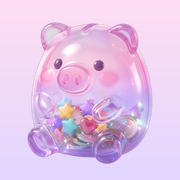
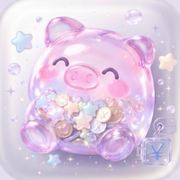
アイコンを新しい貯金箱のデザインに、アプリ名を「貯金箱」に
- いただいた画像からアイコンを切り出し、各サイズ（180/192/512、maskable）を作成
- ホーム画面に追加したときの名前・ページタイトルを「貯金箱」に

Claude-Session: https://claude.ai/code/session_01TingTRwHDzy1PK7LNY3BMc

diff --git a/kakeibo/index.html b/kakeibo/index.html
@@ -6,14 +6,14 @@
 <meta name="description" content="かわいい家計簿・貯金アプリ">
 <meta name="theme-color" content="#f3e6ff">
 <meta name="apple-mobile-web-app-capable" content="yes">
-<meta name="apple-mobile-web-app-title" content="ぶたさん家計簿">
+<meta name="apple-mobile-web-app-title" content="貯金箱">
 <link rel="manifest" href="manifest.webmanifest">
 <link rel="icon" href="icon-192.png" type="image/png">
 <link rel="apple-touch-icon" href="apple-touch-icon.png">
 <link rel="preload" href="pig.webp" as="image">
 <link rel="preload" href="pig-sad.webp" as="image">
 <link rel="preload" href="pig-empty.webp" as="image">
-<title>ぶたさん家計簿</title>
+<title>貯金箱</title>
 <link rel="preconnect" href="https://fonts.googleapis.com">
 <link rel="preconnect" href="https://fonts.gstatic.com" crossorigin>
 <link href="https://fonts.googleapis.com/css2?family=Zen+Maru+Gothic:wght@500;700;900&display=swap" rel="stylesheet">

diff --git a/kakeibo/sw.js b/kakeibo/sw.js
@@ -1,5 +1,5 @@
 // オフラインでも開けるようにするサービスワーカー
-const CACHE = 'kakeibo-v15';
+const CACHE = 'kakeibo-v16';
 const FILES = ['./', './index.html', './manifest.webmanifest', './pig.webp', './pig-sad.webp', './pig-empty.webp', './icon-192.png', './icon-512.png', './icon-maskable.png', './apple-touch-icon.png',
   './fx/coin-gold.webp', './fx/coin-silver.webp', './fx/coin-star.webp', './fx/flame.webp', './fx/heart-blue.webp', './fx/heart-pink.webp', './fx/heart-purple.webp', './fx/sp-pink.webp', './fx/sp-purple.webp', './fx/sp-rainbow.webp', './fx/sp-white.webp', './fx/star-blue.webp', './fx/star-mint.webp', './fx/star-pink.webp', './fx/star-purple.webp', './fx/star-yellow.webp'];
 
